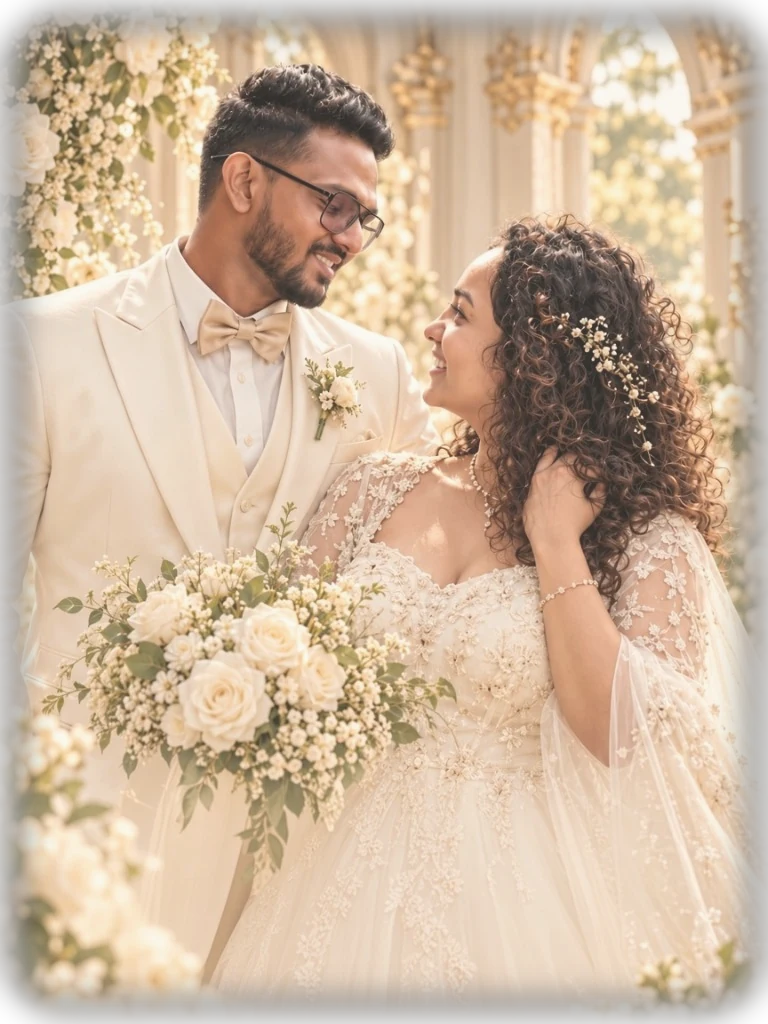
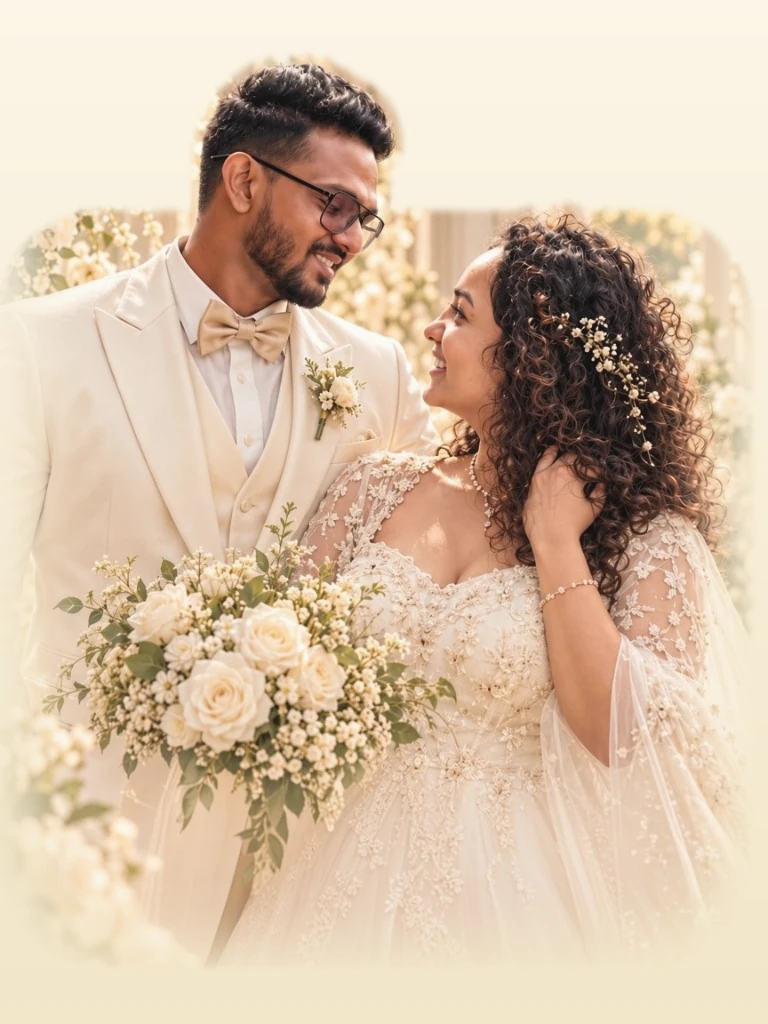
Replace the couple photo background with invitation ivory.

diff --git a/index.html b/index.html
@@ -77,7 +77,7 @@
             <p class="full-date">Thursday, 3<sup>rd</sup> December 2026</p>
             <div class="couple-wrap">
               <img
-                src="assets/couple-hero.webp?v=2"
+                src="assets/couple-hero.webp?v=3"
                 alt="Sanjana and Thenuka"
                 draggable="false"
               />
@@ -130,7 +130,7 @@
             <div class="story__photo">
               <div class="story__photo-inner">
                 <img
-                  src="assets/couple-story.webp?v=2"
+                  src="assets/couple-story.webp?v=3"
                   alt="Sanjana &amp; Thenuka"
                   loading="lazy"
                   draggable="false"

diff --git a/scripts/process_couple.py b/scripts/process_couple.py
@@ -1,73 +1,107 @@
+from io import BytesIO
 from pathlib import Path
 
 from PIL import Image, ImageChops, ImageDraw, ImageEnhance, ImageFilter
+from rembg import new_session, remove
 
 ROOT = Path(__file__).resolve().parents[1]
 ASSETS = ROOT / "assets"
 SRC = ASSETS / "couple-original.png"
+IVORY = (245, 237, 220)
+IVORY_WARM = (251, 245, 230)
+GOLD_WASH = (242, 230, 201)
 
 
-def grade(im: Image.Image) -> Image.Image:
-    rgb = im.convert("RGB")
-    rgb = ImageEnhance.Color(rgb).enhance(0.92)
-    rgb = ImageEnhance.Contrast(rgb).enhance(0.94)
-    rgb = ImageEnhance.Brightness(rgb).enhance(1.04)
-    ivory = Image.new("RGB", rgb.size, (245, 237, 220))
-    rgb = Image.blend(rgb, ivory, 0.14)
-    gold = Image.new("RGB", rgb.size, (210, 185, 122))
-    return Image.blend(rgb, gold, 0.05)
-
-
-def rounded_mask(size, inset, radius, blur) -> Image.Image:
+def ivory_backdrop(size: tuple[int, int]) -> Image.Image:
     w, h = size
-    mask = Image.new("L", size, 0)
-    draw = ImageDraw.Draw(mask)
-    l, t, r, b = inset
-    draw.rounded_rectangle((l, t, w - r, h - b), radius=radius, fill=255)
-    return mask.filter(ImageFilter.GaussianBlur(radius=blur))
+    bg = Image.new("RGB", size, IVORY_WARM)
+    wash = Image.new("RGB", size, GOLD_WASH)
+    mask = Image.linear_gradient("L").resize((1, h)).resize(size)
+    return Image.composite(wash, bg, mask)
 
 
-def bottom_fade(size, start_ratio=0.68) -> Image.Image:
-    w, h = size
-    fade = Image.new("L", size, 255)
-    draw = ImageDraw.Draw(fade)
-    start = int(h * start_ratio)
-    for y in range(start, h):
-        t = (y - start) / max(1, h - start)
-        draw.line([(0, y), (w, y)], fill=int(255 * (1 - t) ** 1.25))
-    return fade
+def rembg_cutout(src: Image.Image) -> Image.Image:
+    buf = BytesIO()
+    src.convert("RGB").save(buf, "PNG")
+    session = new_session("u2net")
+    return Image.open(BytesIO(remove(buf.getvalue(), session=session))).convert("RGBA")
 
 
-def compose(rgb: Image.Image, mask: Image.Image) -> Image.Image:
-    out = Image.new("RGBA", rgb.size, (0, 0, 0, 0))
-    out.paste(rgb.convert("RGBA"), mask=mask)
+def expand_subject_mask(cut: Image.Image) -> Image.Image:
+    alpha = cut.getchannel("A")
+    solid = alpha.point(lambda p: 255 if p > 24 else 0)
+    bbox = solid.getbbox()
+    if not bbox:
+        return alpha
+
+    left, top, right, bottom = bbox
+    w, h = cut.size
+    grown = Image.new("L", cut.size, 0)
+    draw = ImageDraw.Draw(grown)
+    pad_x = int(w * 0.03)
+    lower = min(h - 8, int(h * 0.94))
+    draw.rounded_rectangle(
+        (max(0, left - pad_x), top + int((bottom - top) * 0.22), min(w, right + int(w * 0.02)), lower),
+        radius=int(min(w, h) * 0.14),
+        fill=255,
+    )
+    draw.ellipse(
+        (int(w * 0.08), int(h * 0.46), int(w * 0.44), int(h * 0.82)),
+        fill=255,
+    )
+
+    merged = ImageChops.lighter(solid, grown)
+    merged = merged.filter(ImageFilter.MaxFilter(11))
+    merged = merged.filter(ImageFilter.GaussianBlur(radius=3.5))
+    return merged
+
+
+def grade_subject(rgb: Image.Image, mask: Image.Image) -> Image.Image:
+    graded = rgb.convert("RGB")
+    graded = ImageEnhance.Color(graded).enhance(0.97)
+    graded = ImageEnhance.Contrast(graded).enhance(0.98)
+    ivory = Image.new("RGB", graded.size, IVORY)
+    graded = Image.blend(graded, ivory, 0.06)
+    out = graded.convert("RGBA")
+    out.putalpha(mask)
     return out
 
 
+def edge_ivory_wash(size: tuple[int, int]) -> Image.Image:
+    w, h = size
+    keep = Image.new("L", size, 0)
+    draw = ImageDraw.Draw(keep)
+    draw.rounded_rectangle(
+        (int(w * 0.06), int(h * 0.04), w - int(w * 0.06), h - int(h * 0.08)),
+        radius=int(min(w, h) * 0.16),
+        fill=255,
+    )
+    keep = keep.filter(ImageFilter.GaussianBlur(radius=28))
+    return keep
+
+
+def compose(src: Image.Image, cut: Image.Image) -> Image.Image:
+    mask = expand_subject_mask(cut)
+    subject = grade_subject(src, mask)
+    bg = ivory_backdrop(src.size).convert("RGBA")
+    merged = Image.alpha_composite(bg, subject)
+    keep = edge_ivory_wash(src.size)
+    return Image.composite(merged.convert("RGB"), ivory_backdrop(src.size), keep)
+
+
 def save_webp(im: Image.Image, path: Path) -> None:
-    im.save(path, "WEBP", quality=88, method=6)
+    im.convert("RGB").save(path, "WEBP", quality=90, method=6)
     print(f"wrote {path.name} {path.stat().st_size} bytes {im.size}")
 
 
 def main() -> None:
-    src = Image.open(SRC)
-    print("source", src.size, src.mode)
-    rgb = grade(src)
-    w, h = rgb.size
-
-    hero_mask = ImageChops.multiply(
-        rounded_mask((w, h), (int(w * 0.03), int(h * 0.025), int(w * 0.03), int(h * 0.08)), int(min(w, h) * 0.075), 28),
-        bottom_fade((w, h), 0.68),
-    )
-    save_webp(compose(rgb, hero_mask), ASSETS / "couple-hero.webp")
-
-    story_mask = rounded_mask(
-        (w, h),
-        (int(w * 0.02), int(h * 0.02), int(w * 0.02), int(h * 0.02)),
-        int(min(w, h) * 0.06),
-        16,
-    )
-    save_webp(compose(rgb, story_mask), ASSETS / "couple-story.webp")
+    src = Image.open(SRC).convert("RGB")
+    print("source", src.size)
+    cut = rembg_cutout(src)
+    print("cutout", cut.mode)
+    out = compose(src, cut)
+    save_webp(out, ASSETS / "couple-hero.webp")
+    save_webp(out, ASSETS / "couple-story.webp")
 
 
 if __name__ == "__main__":
